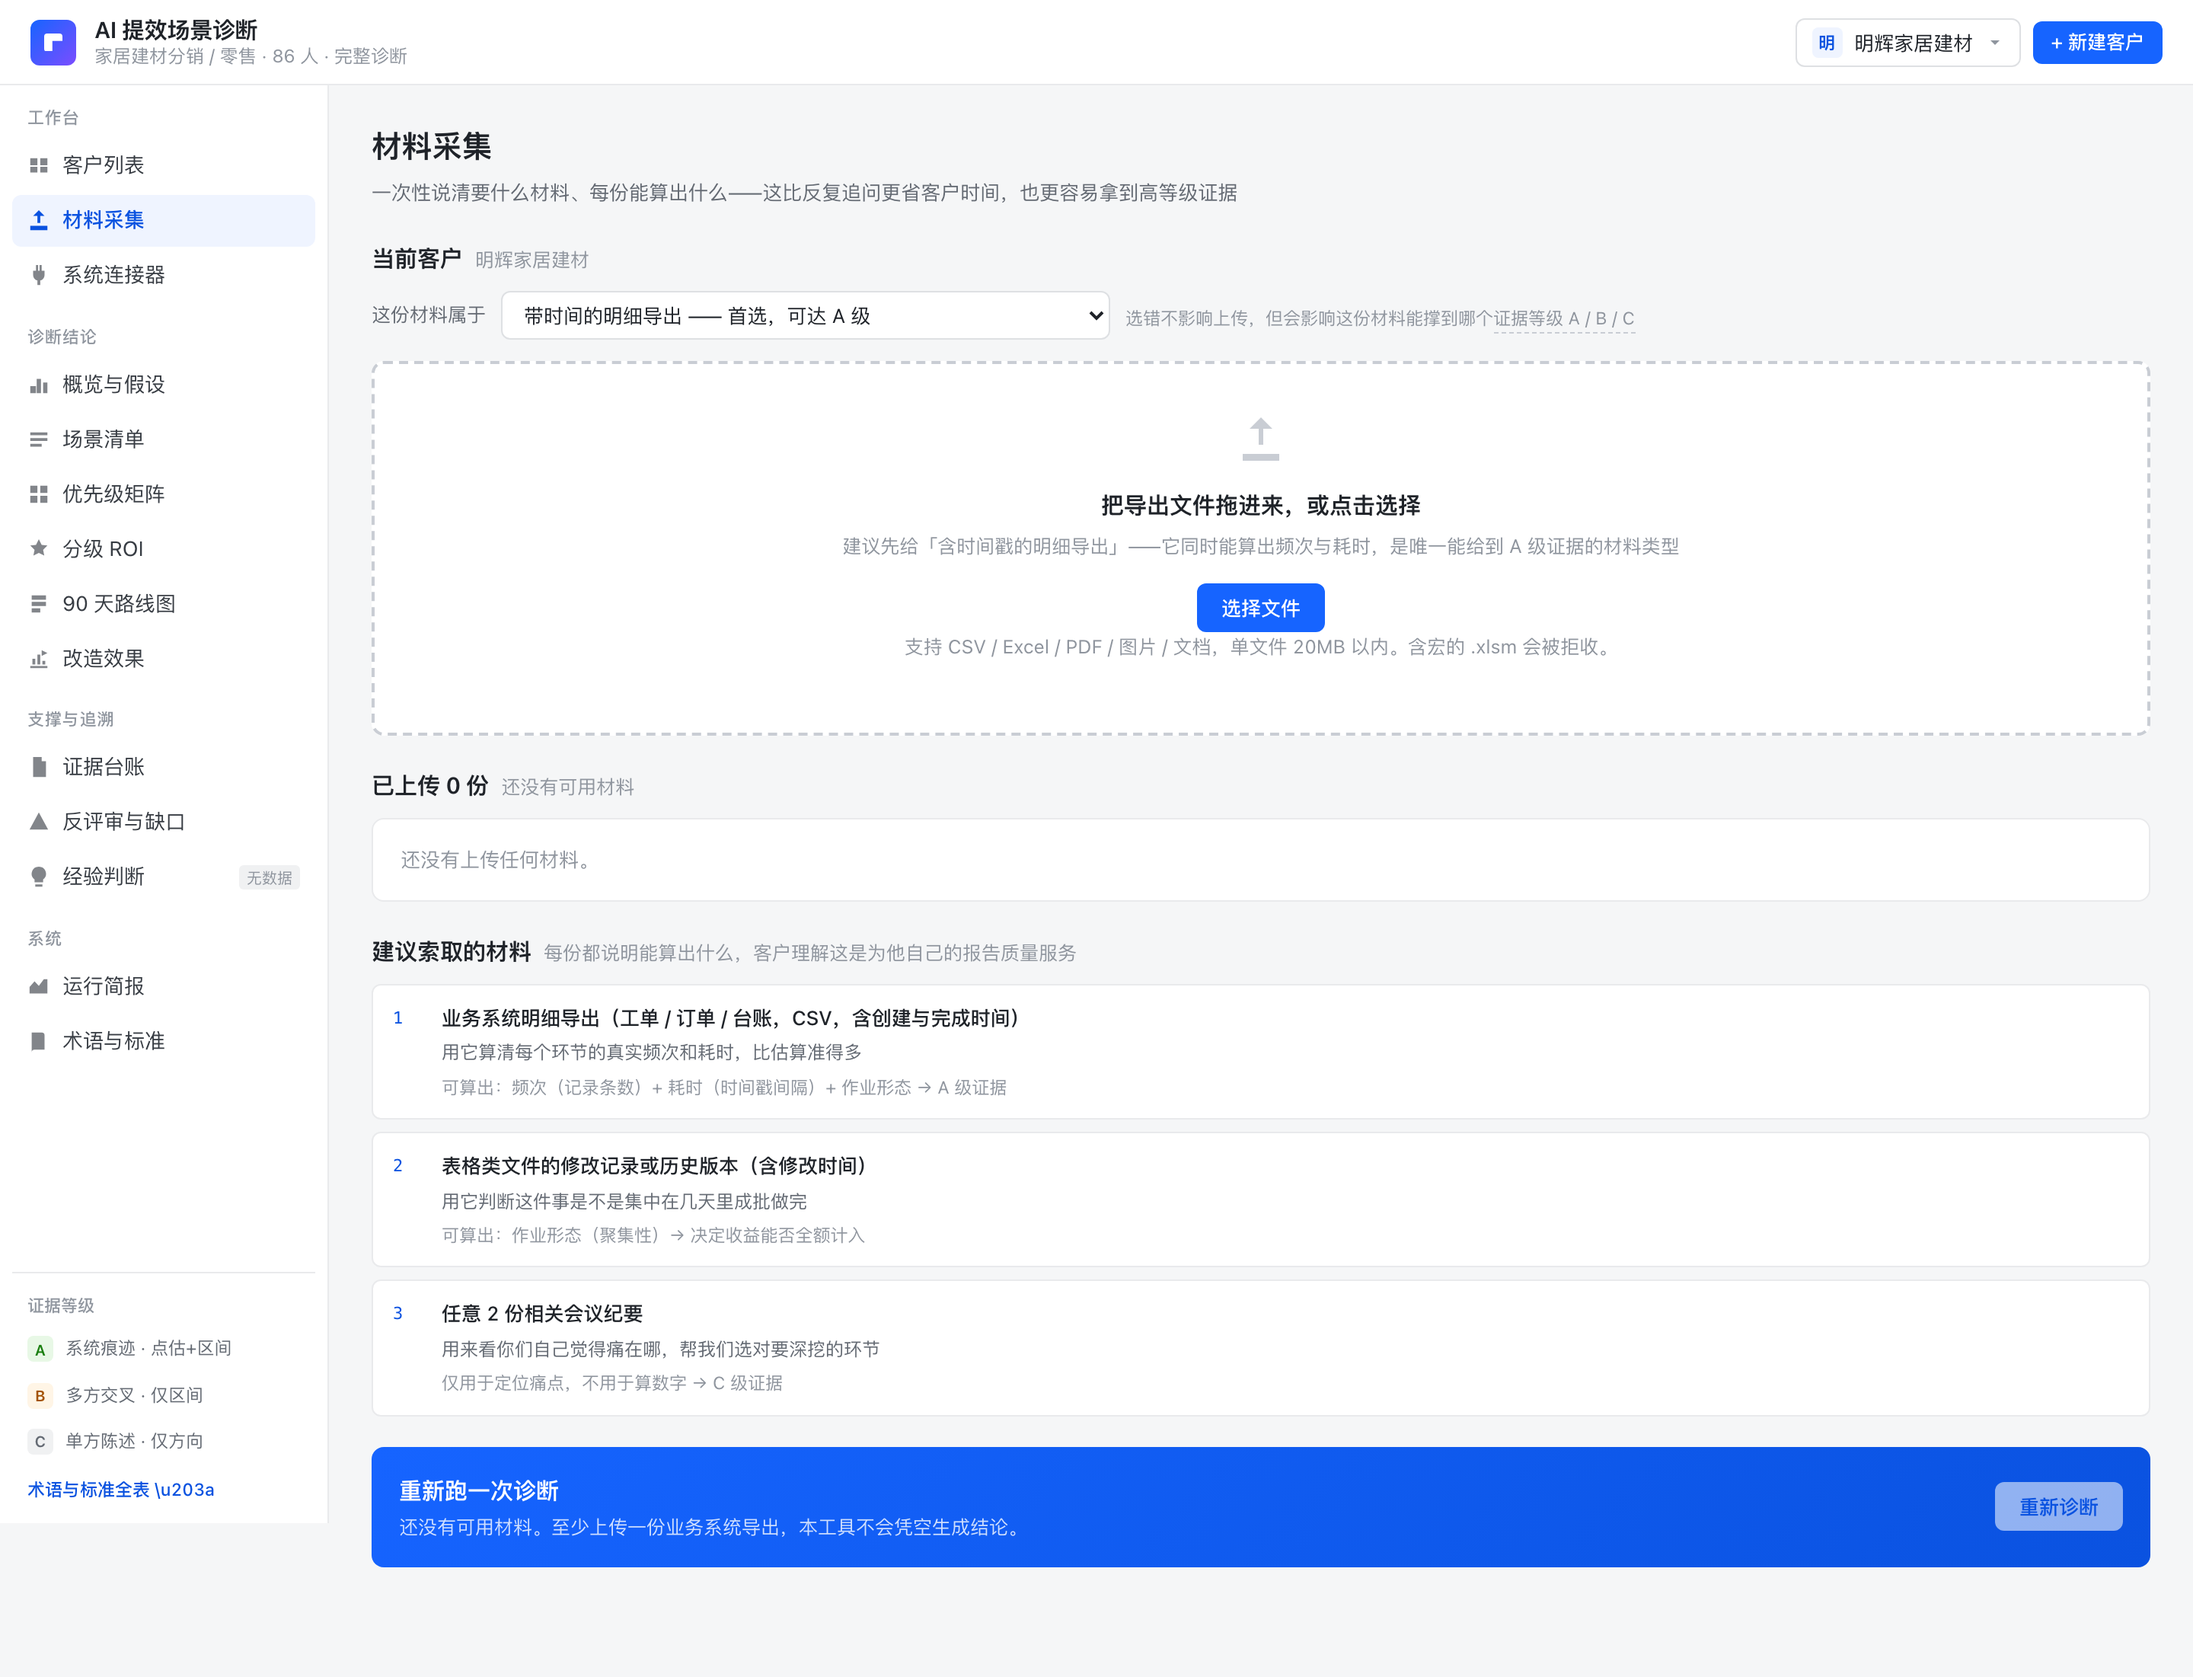
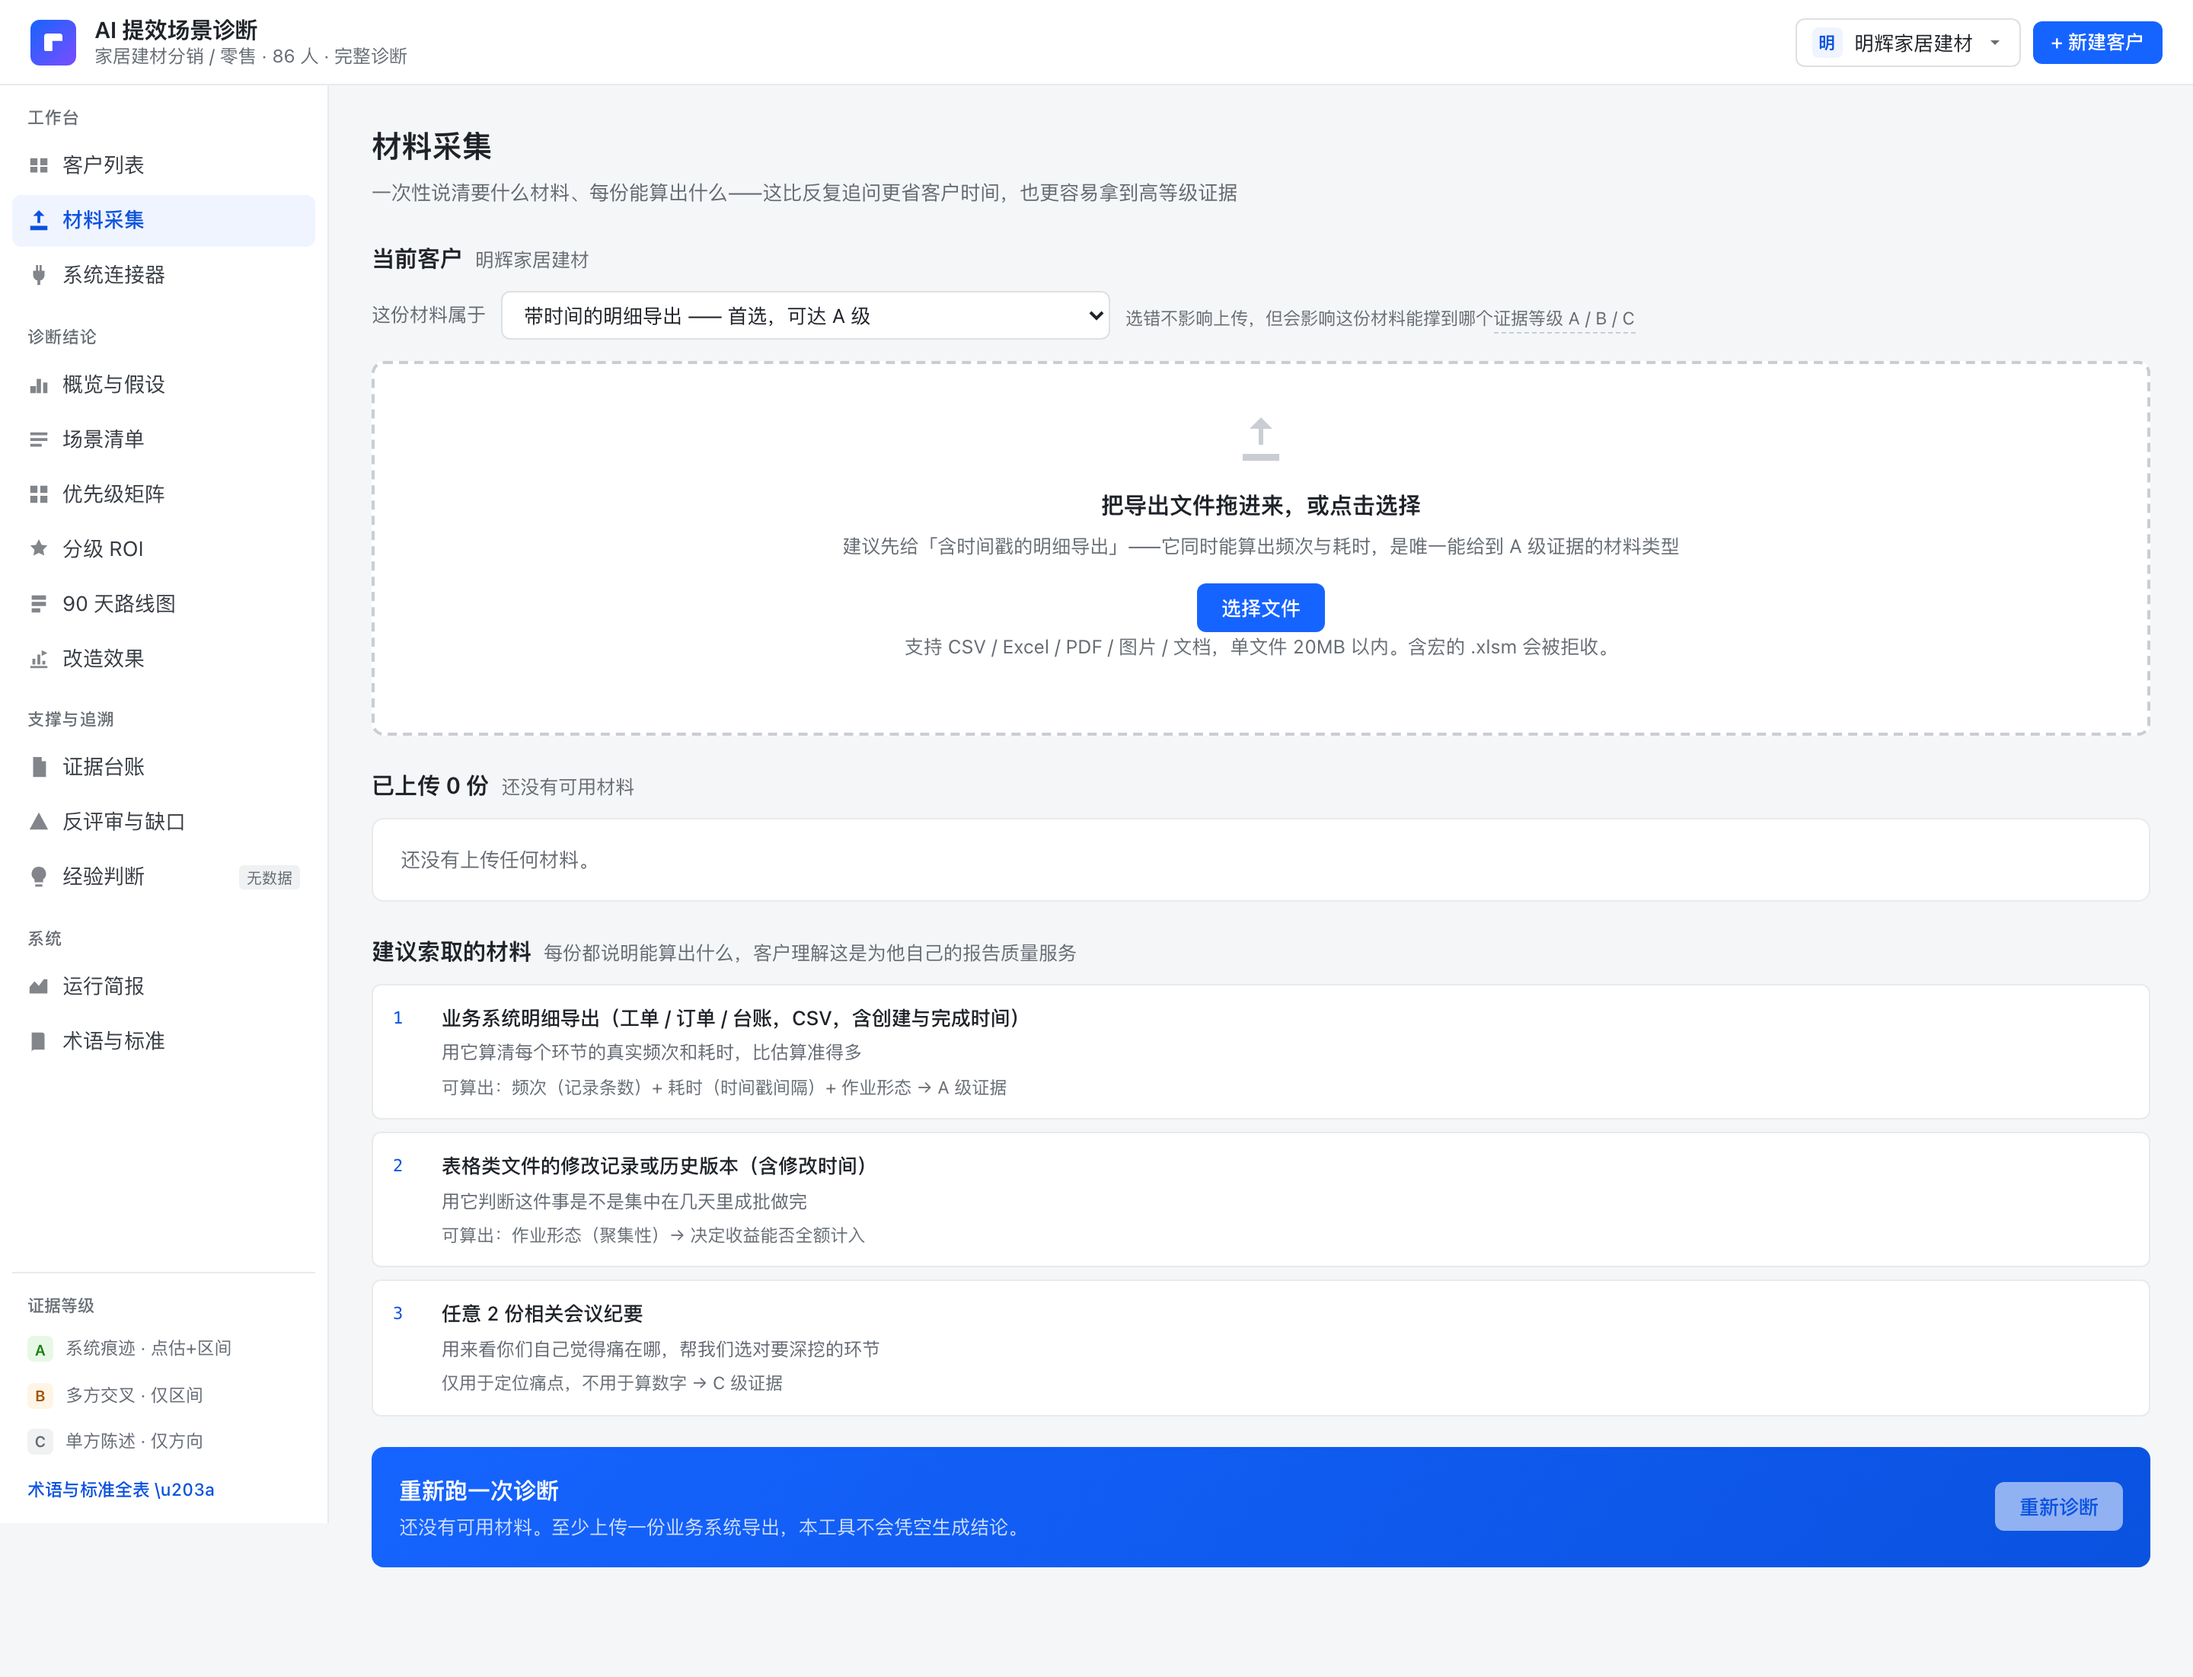
fix(web): 色彩对比度全部达到 WCAG AA
补了一项此前没量过的东西：对比度。此前做了键盘可达与读屏支持，
但从没算过实际渲染出来的前景/背景比值。一量发现是系统性问题。

次要文字色 --n400 原值 #8f959e 在白底只有 3.02:1（小字要求 4.5:1），
而全站 55 处 color: var(--n400) 都用它——一处 token 拖着整个界面不达标，
14 个视图里量出 43 处不足。改 token 而不是逐处打补丁。

- --n400: #8f959e -> #676d74（白卡 5.23 / 画布 4.83 / 徽标底 4.62）
- 必填星号从 --danger（3.53:1）换成 --danger-fg（6.52:1）——
  星号恰恰是最不能看不清的元素
- 落在更深 --n75 底色上的 .nav-flag / .step-dot 降到 --n500

取值定在"落到任何一层背景上都达标"而非"落到目前用到的背景上达标"：
#6b7178 在白卡与画布够用，但在 --n75 上只有 4.36。今天恰好没有 n400 文字
落在那层底色上，但没有任何机制拦住以后有人这么写。

副作用如实记在 README：AA 会把可用灰阶压扁，n400 与 n500 因此非常接近，
层级改为主要依赖字号与字重——这比把次要信息调淡到读不清更可取。

两类验证都有，且互相补位：
- 浏览器实测遍历 14 个视图、逐文本节点算真实计算色（含向上追溯真正在绘制的
  背景层）。过程中修了脚本自身一个假象：linear-gradient 的 backgroundColor
  是透明的，导致 .stat-primary / .run-bar / .brief 上的白字被算成"白底白字"
- 静态测试直接算 token 两两配对。这次它比浏览器更严——浏览器只能量到
  "当前真实渲染出来的组合"，量不到"合法但暂时没人写的组合"，
  正是它抓出了 --n400 在 --n75 上的 4.36

验证：524 个 pytest 全绿、黄金集 12/12；
浏览器对比度审计 14 个视图 0 处不足；
全站枚举扫描 8/8、无障碍 17/17 回归通过。
四条新测试均做过红-绿验证（调浅 n400 / 星号改回 --danger / 调浅正文色 /
调浅 A 级徽标前景，逐一确认会红）。

Changed region(s): [[0.4375, 0.5559, 0.4688, 0.5867], [0.3438, 0.5559, 0.375, 0.5867], [0.25, 0.5559, 0.2812, 0.5867]]

diff --git a/web/styles.css b/web/styles.css
@@ -21,7 +21,18 @@
   --n100: #e9eaec;
   --n200: #dee0e3;
   --n300: #c9cdd4;
-  --n400: #8f959e;
+  /* 次要文字色。原值 #8f959e 只有 3.02:1（白底），全站 55 处 `color: var(--n400)`
+     全部低于 WCAG AA 对小字要求的 4.5:1，所以改 token 而不是逐处打补丁。
+
+     取值定在"落到任何一层背景上都达标"，而不是"落到目前用到的背景上达标"：
+     #6b7178 在白卡 4.93、画布 4.56 都够，但在徽标底 --n75 上只有 4.36。
+     今天恰好没有 n400 文字落在那层底色上，可是没有任何机制拦住以后有人这么写。
+     #676d74 三种背景分别 5.23 / 4.83 / 4.62，全部达标。
+
+     副作用要如实说明：AA 会把可用的灰阶压扁，n400 与 n500 因此非常接近，
+     纯靠明度已经拉不开层级。层级改为主要依赖字号与字重（见 .stat-k / .hint / .sub），
+     这比"把次要信息调淡到读不清"更可取。 */
+  --n400: #676d74;
   --n500: #646a73;
   --n600: #373c43;
   --n700: #1f2329;
@@ -165,7 +176,8 @@ body {
 
 .nav-flag {
   margin-left: auto; padding: 1px 5px; border-radius: 3px;
-  background: var(--n75); color: var(--n400);
+  /* 底色比白卡深，--n400 在这里只有 4.36:1，所以用更深的 --n500 */
+  background: var(--n75); color: var(--n500);
   font-size: 10px; font-style: normal; font-weight: 400;
 }
 
@@ -475,7 +487,8 @@ tr.sum td { background: var(--b50); font-weight: 600; border-top: 1px solid var(
 .form { display: grid; gap: 14px; max-width: 660px; }
 .form-row { display: grid; grid-template-columns: repeat(auto-fit, minmax(170px, 1fr)); gap: 12px; }
 .form label { display: block; margin-bottom: 5px; font-size: 12.5px; color: var(--n500); }
-.form label em { color: var(--danger); font-style: normal; margin-left: 2px; }
+/* 必填星号：--danger 作纯色文字只有 3.53:1，用 --danger-fg（6.52:1） */
+.form label em { color: var(--danger-fg); font-style: normal; margin-left: 2px; }
 .inp {
   width: 100%; height: 32px; padding: 0 10px;
   background: var(--n0); border: 1px solid var(--n200); border-radius: var(--r);
@@ -585,7 +598,7 @@ textarea.inp { height: auto; min-height: 64px; padding: 8px 10px; resize: vertic
 .step-dot {
   width: 18px; height: 18px; border-radius: 50%; flex: none;
   display: grid; place-items: center; font-size: 10px; font-weight: 600;
-  background: var(--n75); color: var(--n400);
+  background: var(--n75); color: var(--n500);
 }
 .step-dot.done { background: var(--success-bg); color: var(--success-fg); }
 .step-dot.now { background: var(--b500); color: var(--n0); }

diff --git a/tests/test_web_glossary_contract.py b/tests/test_web_glossary_contract.py
@@ -241,3 +241,75 @@ def test_readme_page_table_matches_actual_nav():
     # 别再出现写死的旧数字
     for stale in ("9 个视图", "15 个条目"):
         assert stale not in readme, f"README 仍写着过时的「{stale}」"
+
+
+# ---------------------------------------------------------------------------
+# 色彩对比度：浏览器里逐个视图量过，这里做静态钉子防回归
+# ---------------------------------------------------------------------------
+def _srgb_luminance(hex_color: str) -> float:
+    """WCAG 2.1 相对亮度。"""
+    h = hex_color.lstrip("#")
+    parts = [int(h[i:i + 2], 16) / 255 for i in (0, 2, 4)]
+    chans = [c / 12.92 if c <= 0.03928 else ((c + 0.055) / 1.055) ** 2.4 for c in parts]
+    return 0.2126 * chans[0] + 0.7152 * chans[1] + 0.0722 * chans[2]
+
+
+def _contrast(fg: str, bg: str) -> float:
+    lo, hi = sorted((_srgb_luminance(fg), _srgb_luminance(bg)))
+    return (hi + 0.05) / (lo + 0.05)
+
+
+def _token(name: str) -> str:
+    m = re.search(rf"--{name}:\s*(#[0-9a-fA-F]{{6}})", STYLES)
+    assert m, f"styles.css 里找不到 --{name}"
+    return m.group(1)
+
+
+def test_secondary_text_token_meets_wcag_aa():
+    """次要文字色必须在它实际会落到的所有背景上达到 AA（小字 4.5:1）。
+
+    原值 #8f959e 只有 3.02:1（白底），全站 55 处 `color: var(--n400)` 全部不达标——
+    「浅灰=次要信息」的直觉很容易把对比度压到看不清，而这类问题肉眼审查极易放过：
+    设计稿上"淡一点"看着更精致，实际用户在阳光下或低质量屏幕上就读不到了。
+
+    背景取三种：白卡、浅灰画布、表头/徽标底。
+    """
+    fg = _token("n400")
+    for bg_name in ("n0", "n50", "n75"):
+        r = _contrast(fg, _token(bg_name))
+        assert r >= 4.5, (
+            f"--n400 ({fg}) 在 --{bg_name} ({_token(bg_name)}) 上只有 {r:.2f}:1，"
+            f"低于 WCAG AA 要求的 4.5:1"
+        )
+
+
+def test_body_text_tokens_meet_wcag_aa():
+    """正文与强调文字色同样要达标——它们比次要文字更该达标。"""
+    for name in ("n500", "n600", "n700"):
+        r = _contrast(_token(name), _token("n0"))
+        assert r >= 4.5, f"--{name} 在白底上只有 {r:.2f}:1"
+
+
+def test_semantic_text_colors_meet_wcag_aa():
+    """语义色作文字时要用 -fg 变体。
+
+    --danger (#f54a45) 作纯色文字只有 3.53:1。必填星号一度直接用了它——
+    星号恰恰是最不能看不清的元素。
+    """
+    for name in ("success-fg", "warning-fg", "danger-fg"):
+        r = _contrast(_token(name), _token("n0"))
+        assert r >= 4.5, f"--{name} 在白底上只有 {r:.2f}:1"
+
+    # 必填星号不得直接用高饱和的 --danger
+    m = re.search(r"\.form label em\s*\{([^}]*)\}", STYLES)
+    assert m, "找不到必填星号的样式"
+    assert "var(--danger-fg)" in m.group(1), (
+        "必填星号应使用 --danger-fg；--danger 作文字只有 3.53:1"
+    )
+
+
+def test_evidence_grade_colors_meet_wcag_aa():
+    """A/B/C 徽标是判断结论强度的核心视觉元素，落在各自的浅色底上也要能读清。"""
+    for fg, bg in (("ga", "ga-bg"), ("gb", "gb-bg"), ("gc", "gc-bg")):
+        r = _contrast(_token(fg), _token(bg))
+        assert r >= 4.5, f"--{fg} 在 --{bg} 上只有 {r:.2f}:1"

diff --git a/README.md b/README.md
@@ -257,13 +257,36 @@ IM 刻意声明为 C 级：**把它标成 A 级会让下游误以为能量化，
 - **减弱动态效果**：按 `prefers-reduced-motion` 全局关掉动画与过渡。
   逐个列举选择器漏得快——本轮新增的浮层就漏过一次，所以改成通用选择器兜住
 - 所有可交互控件都有 `:focus-visible` 可见焦点：键盘用户看不见焦点在哪，等于不能用键盘
+- **色彩对比度全部达到 WCAG AA**：次要文字色原本是 `#8f959e`，白底只有 3.02:1
+  （小字要求 4.5:1），而全站 55 处 `color: var(--n400)` 都用它——一处 token
+  拖着整个界面不达标。改 token 而非逐处打补丁，另外把必填星号从 `--danger`
+  （3.53:1）换成 `--danger-fg`（6.52:1）
+
+「浅灰＝次要信息」这个直觉很容易把对比度压到读不清，而且**肉眼审查几乎发现不了**：
+设计稿上"淡一点"看着更精致，实际用户在阳光下或低质量屏幕上就读不到。
+所以这一项靠量而不靠看——在浏览器里遍历 14 个视图、逐个文本节点算真实计算色的
+对比度（含向上追溯真正在绘制的背景层）。
+
+取值定在「落到任何一层背景上都达标」，而不是「落到目前用到的背景上达标」：
+`#6b7178` 在白卡与画布上够用，但在徽标底 `--n75` 上只有 4.36。今天恰好没有
+n400 文字落在那层底色上，可是没有任何机制拦住以后有人这么写。最终取 `#676d74`
+（5.23 / 4.83 / 4.62）。
+
+副作用要如实说明：AA 会把可用灰阶压扁，`--n400` 与 `--n500` 因此非常接近，
+纯靠明度已经拉不开层级。层级改为主要依赖**字号与字重**，
+这比"把次要信息调淡到读不清"更可取。
 
 以上每条都在浏览器里实测过（`role`/`aria-live` 取值、聚焦前后位移、
 容器真实发生滚动后表头是否不动、Tab 14 次是否逃出弹窗、
-`animation-duration` 计算值、关掉动画后功能是否仍在），
+`animation-duration` 计算值、关掉动画后功能是否仍在、14 个视图逐节点的对比度），
 并用静态测试钉住防回归。静态钉子本身也做了红-绿验证：
 逐个破坏行为确认对应测试真的会红——其中一条起初破坏后依然绿
 （`"*" in body` 会被 `.skeleton > *` 里的星号命中），已改为匹配真正的通用选择器。
+
+对比度这一项还出现过反过来的情况：**静态测试比浏览器实测更严**。
+浏览器只能量到"当前真实渲染出来的组合"，量不到"合法但暂时没人写的组合"；
+静态测试直接算 token 两两配对，因此抓出了 `--n400` 在 `--n75` 上的 4.36。
+两种验证都要，谁也替不了谁。
 
 ## 架构落点对照
 
@@ -325,6 +348,8 @@ IM 刻意声明为 C 级：**把它标成 A 级会让下游误以为能量化，
 - 所有可交互控件都要有 `:focus-visible`
 - 窄屏媒体查询收窄的选择器必须与持有 `margin-left` 的选择器是同一个
   （「偏移写在 A 上、媒体查询改 B」曾导致整页溢出，见下）
+- 文字色 token 必须在**任何**一层背景上都达到 WCAG AA（小字 4.5:1）：
+  次要色 `--n400` 对白卡/画布/徽标底三档都要过，语义色作文字必须用 `-fg` 变体
 
 `evals/failure_replays/` 存放生产失败的最小复现用例，修好后转入黄金集回归。
 
